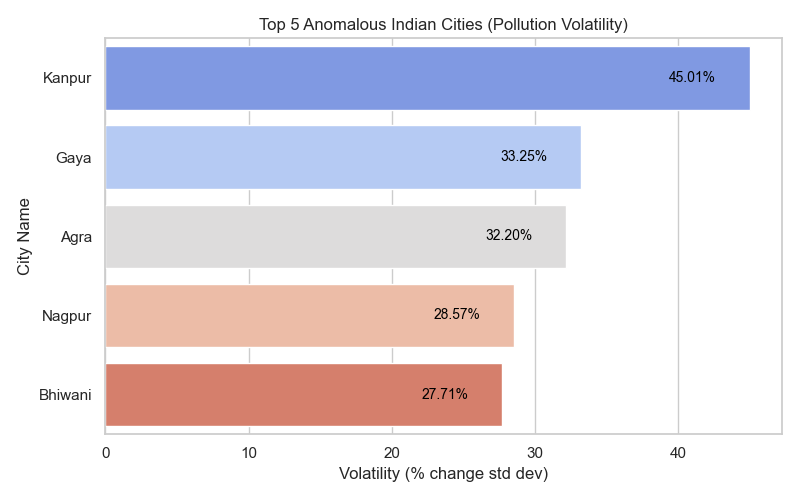
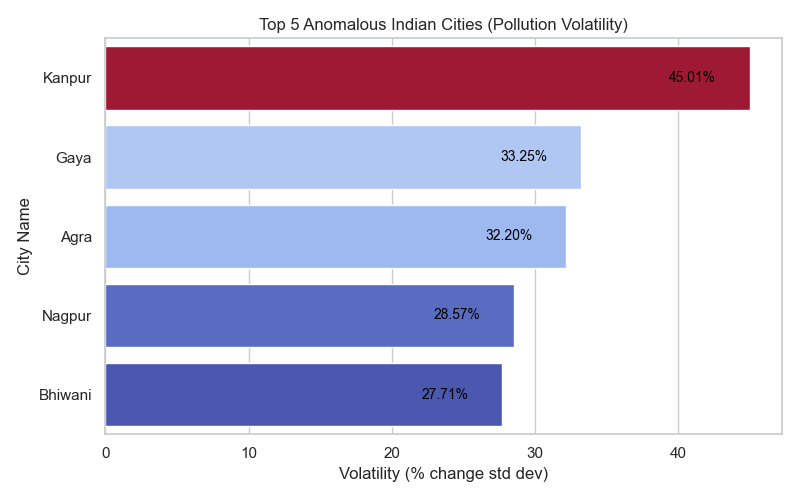
Color fixes 🎨

Changed region(s): [[0.125, 0.57, 0.6562, 0.87], [0.125, 0.09, 0.9375, 0.24], [0.125, 0.39, 0.7188, 0.54]]

diff --git a/scripts/ds_analysis.py b/scripts/ds_analysis.py
@@ -130,7 +130,15 @@ def detect_anomalous_indian_cities(df):
     
     # Plot
     plt.figure(figsize=(8, 5))
-    sns.barplot(data=top5_anomalous, x='Volatility', y='CityName', palette='coolwarm')
+    sns.barplot(
+    data=top5_anomalous,
+    x='Volatility',
+    y='CityName',
+    hue='Volatility',
+    dodge=False,
+    palette=sns.color_palette("coolwarm", as_cmap=True),
+    legend=False
+)
 
     plt.title("Top 5 Anomalous Indian Cities (Pollution Volatility)")
     plt.xlabel("Volatility (% change std dev)")
